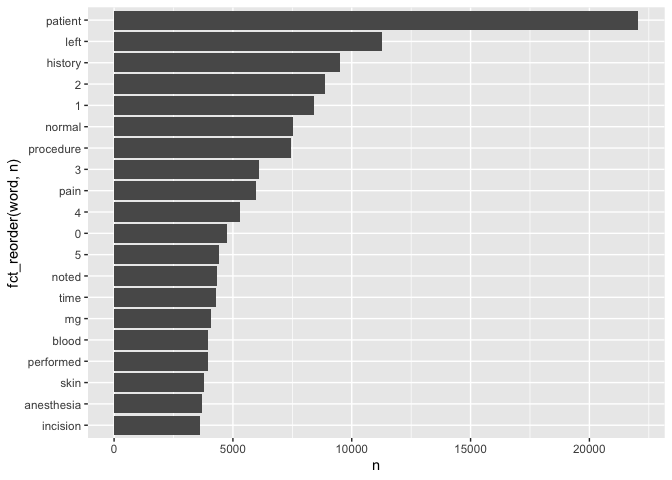
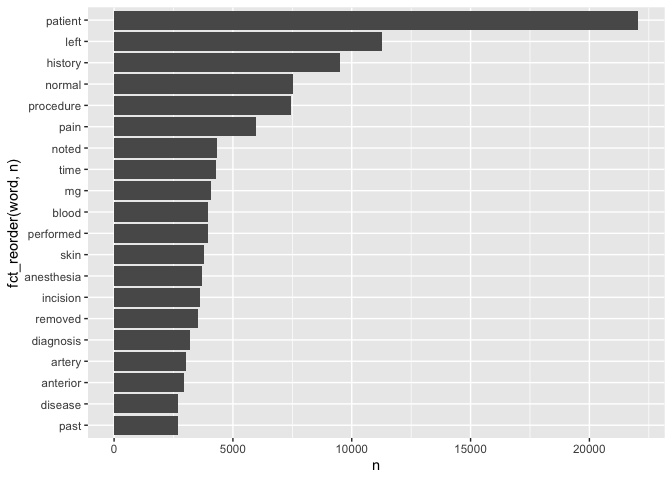
LAB6

diff --git a/LAB6/README.md b/LAB6/README.md
@@ -158,6 +158,8 @@ mtsamples %>%
   unnest_tokens(output = word, input = transcription) %>%
   count(word, sort = TRUE)%>%
   anti_join(stop_words, by = "word") %>%
+  #using ewgular expression to remove numbers
+  filter(!grepl("^[0-9]+$", x = word)) %>%
   top_n(20)%>%
   ggplot(aes(x = n, y = fct_reorder(word, n))) +
     geom_col()
@@ -172,10 +174,92 @@ mtsamples %>%
 repeat question 2, but this time tokenize into bi-grams. how does the
 result change if you look at tri-grams?
 
+#### Bigram
+
+``` r
+mtsamples %>%
+  unnest_ngrams(output = bigram, input = transcription, n = 2) %>%
+  count(bigram, sort = TRUE)%>%
+  top_n(20)%>%
+  ggplot(aes(x = n, y = fct_reorder(bigram, n))) +
+    geom_col()
+```
+
+    ## Selecting by n
+
+![](README_files/figure-gfm/bigram-1.png)<!-- -->
+
+#### Trigram
+
+``` r
+mtsamples %>%
+  unnest_ngrams(output = trigram, input = transcription, n = 3) %>%
+  count(trigram, sort = TRUE)%>%
+  top_n(20)%>%
+  ggplot(aes(x = n, y = fct_reorder(trigram, n))) +
+    geom_col()
+```
+
+    ## Selecting by n
+
+![](README_files/figure-gfm/trigram-1.png)<!-- -->
+
+Now some phrases started to show up.
+
 ## Question 5
 
 Using the results you got from questions 4. Pick a word and count the
 words that appears after and before it.
+
+``` r
+bigrams <- mtsamples %>%
+  unnest_ngrams(output = bigram, input = transcription, n = 2) %>%
+  separate(bigram, into = c("w1", "w2"), sep = " ") 
+bigrams %>%
+  filter(w1 == "draped")%>%
+  select(w1, w2) %>%
+  count(w2, sort = TRUE)
+```
+
+    ## # A tibble: 54 × 2
+    ##    w2                n
+    ##    <chr>         <int>
+    ##  1 in             1419
+    ##  2 a                44
+    ##  3 and              41
+    ##  4 with             29
+    ##  5 the              25
+    ##  6 cardiac          10
+    ##  7 accordingly       8
+    ##  8 sterilely         8
+    ##  9 appropriately     6
+    ## 10 aseptically       6
+    ## # … with 44 more rows
+
+``` r
+bigrams %>%
+ filter(w2 == "draped")%>%
+  select(w1, w2) %>%
+  count(w1, sort = TRUE)
+```
+
+    ## # A tibble: 14 × 2
+    ##    w1            n
+    ##    <chr>     <int>
+    ##  1 and        1601
+    ##  2 was          55
+    ##  3 then         19
+    ##  4 were         12
+    ##  5 prepped       6
+    ##  6 sterilely     5
+    ##  7 solution      4
+    ##  8 ________      2
+    ##  9 been          2
+    ## 10 fashion       2
+    ## 11 lab           2
+    ## 12 patient       2
+    ## 13 phisohex      2
+    ## 14 properly      2
 
 ## Question 6
 
@@ -183,6 +267,34 @@ Which words are most used in each of the specialties. you can use
 group\_by() and top\_n() from dplyr to have the calculations be done
 within each specialty. Remember to remove stopwords. How about the most
 5 used words?
+
+``` r
+mtsamples %>%
+  unnest_tokens(output = word, input = transcription)%>%
+  anti_join(stop_words, by = "word") %>%
+  filter(!grepl("^[0-9]+$", x = word)) %>%
+  group_by(medical_specialty)%>%
+  top_n(5)%>%
+  count(word, sort = TRUE)
+```
+
+    ## Selecting by word
+
+    ## # A tibble: 131 × 3
+    ## # Groups:   medical_specialty [40]
+    ##    medical_specialty                word          n
+    ##    <chr>                            <chr>     <int>
+    ##  1 " Consult - History and Phy."    zyrtec       18
+    ##  2 " Autopsy"                       yellow       17
+    ##  3 " Letters"                       yyyy         16
+    ##  4 " Chiropractic"                  xyz          15
+    ##  5 " General Medicine"              zyrtec       14
+    ##  6 " Pain Management"               xylocaine    10
+    ##  7 " Psychiatry / Psychology"       zyprexa       9
+    ##  8 " Neurosurgery"                  zygoma        7
+    ##  9 " Lab Medicine - Pathology"      wedge         6
+    ## 10 " SOAP / Chart / Progress Notes" zyrtec        6
+    ## # … with 121 more rows
 
 ## Question 7
 
